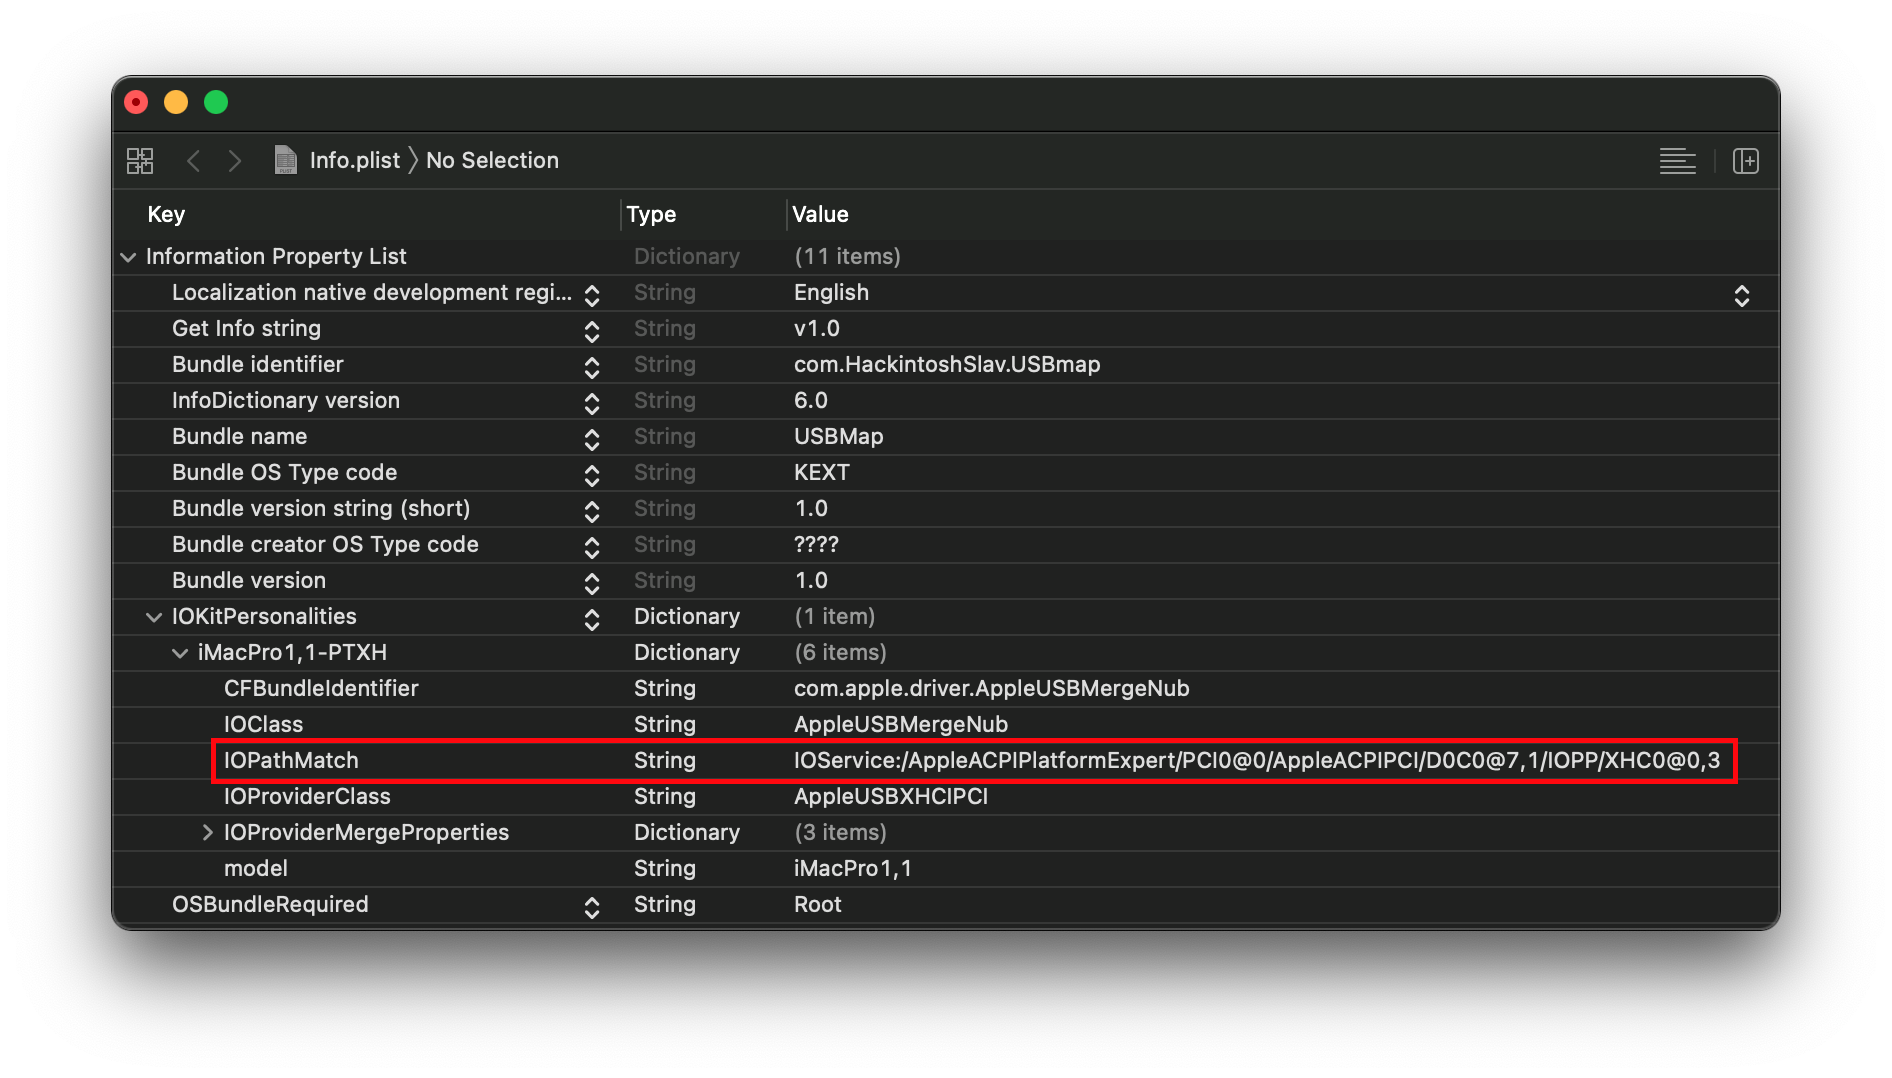
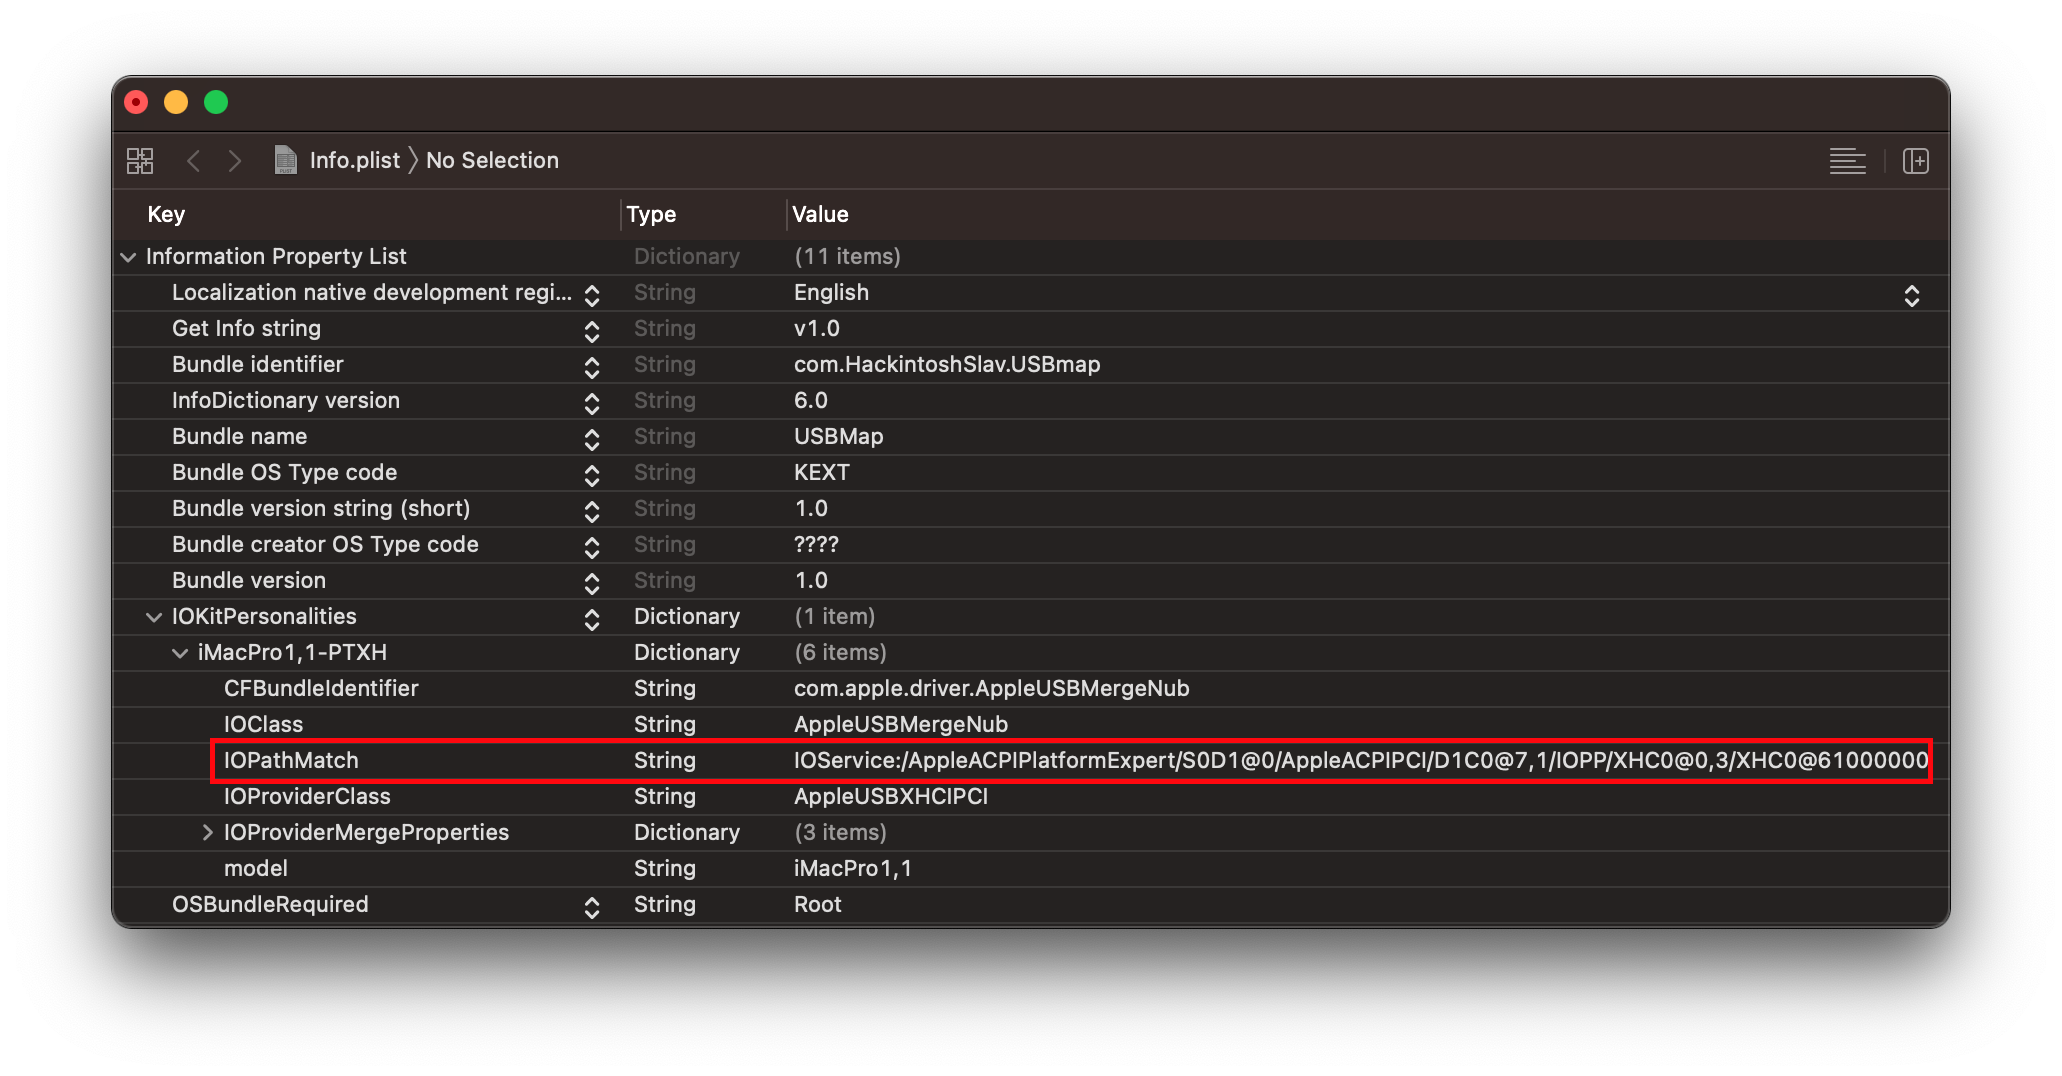
Fix IOPathMatch

Changed region(s): [[0.0312, 0.0613, 0.9667, 0.8587], [0.1247, 0.1227, 0.2807, 0.184]]

diff --git a/usb/amd-mapping/amd.md b/usb/amd-mapping/amd.md
@@ -144,12 +144,12 @@ Finally, grab IOreg and look for your USB controller:
 
 ![](../../images/post-install/usb-md/iopathmatch.png)
 
-From here, pay very close attention to which actual device I selected. Specifically the parent of `XHC0@61000000` being `XHC0@0,3`, reason for this is that's our actual USB controller. The child with the same name is actually a root hub but does not concern us
+From here, pay very close attention to which actual device I selected. Specifically the child of of `XHC0@0,3` being `XHC0@61000000`, reason for this is that's our Root-hub(or what macOS uses to enumerate ports) The child with the same name is actually a root hub but does not concern us
 
-Now copy the `XHC0@0,3` entry and paste it back into the `IOPathMatch` entry in our USBmap.kext's info.plist, this should result in quite a long path name:
+Now copy the `XHC0@61000000` entry and paste it back into the `IOPathMatch` entry in our USBmap.kext's info.plist, this should result in quite a long path name:
 
 ```
-IOService:/AppleACPIPlatformExpert/PCI0@0/AppleACPIPCI/D0C0@7,1/IOPP/XHC0@0,3
+IOService:/AppleACPIPlatformExpert/S0D1@0/AppleACPIPCI/D1C0@7,1/IOPP/XHC0@0,3/XHC0@61000000
 ```
 
 And once done your USBmap's IOPathMatch should look like this:
